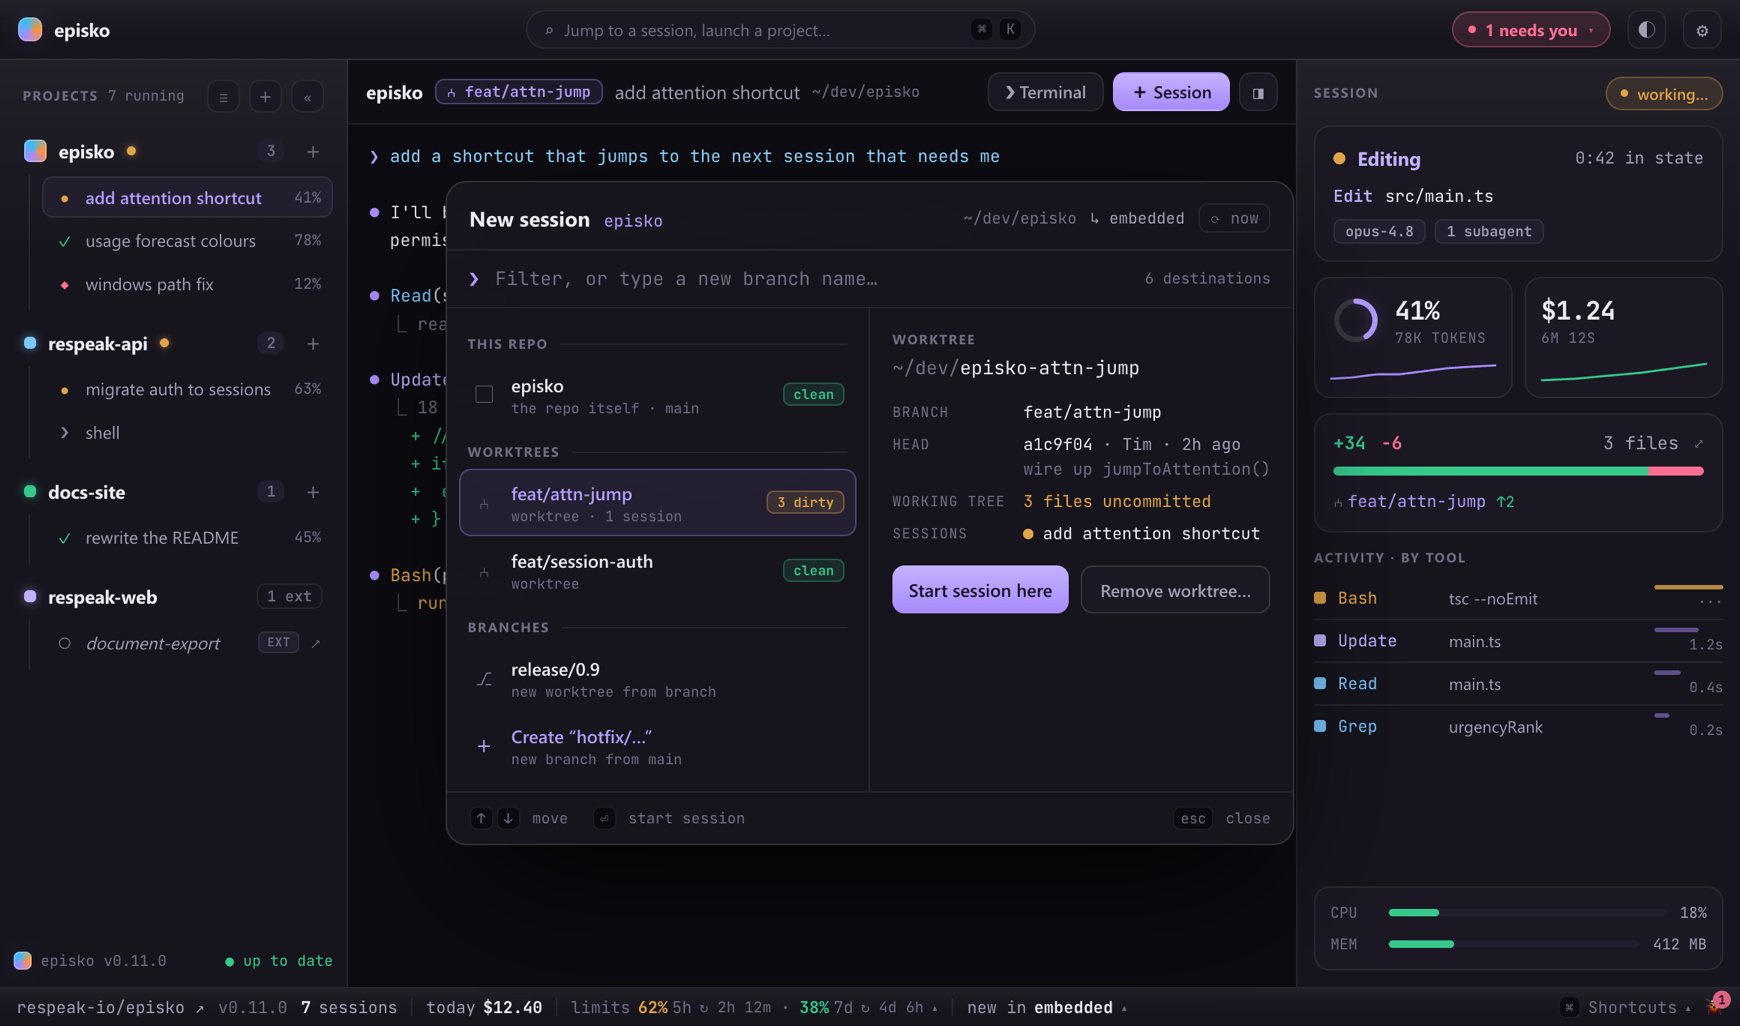
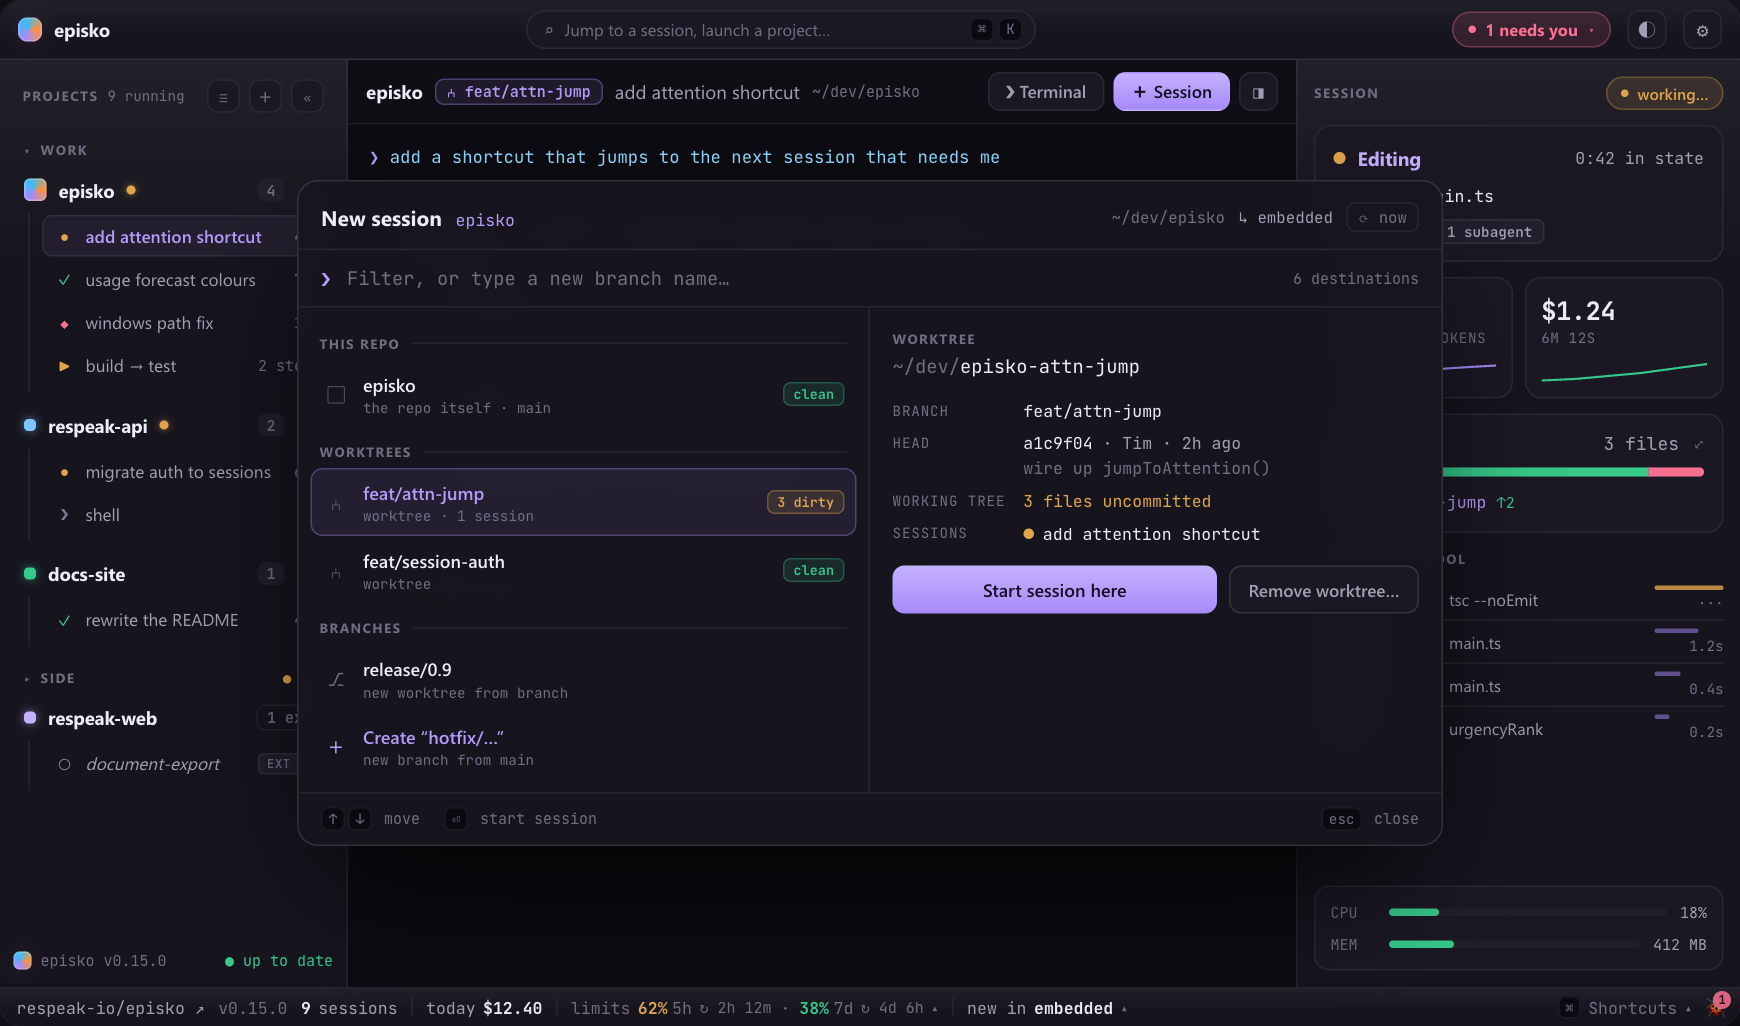
docs: README catches up to 0.15, renders re-captured from the live mock
The feature list gains what 0.12–0.15 shipped — the project dashboard,
issue dispatch with claims, the shared work log, project groups, task
chains, whole-machine history, drift repair and reload re-adoption — and
the dashboard gets its own section plus a new render. All seven renders
are re-captured from the site's cockpit mock at 1740×1026, so they show
the 0.15 rail (groups, chain row) and version labels instead of 0.11's.

diff --git a/README.md b/README.md
@@ -10,18 +10,32 @@
 
 ## What it does
 
-- **Every session in one view.** A sidebar of projects and their sessions, each with a status glyph and context %, sorted so whatever needs you floats up. Sessions that need a decision are called out in the header and the tray.
+- **Every session in one view.** A sidebar of projects and their sessions, each with a status glyph and context %, sorted so whatever needs you floats up. Sessions that need a decision are called out in the header and the tray. Projects can be grouped under your own headings — *Work*, *Side* — and a group folds to one line that still carries the most urgent glyph it hides.
 - **Real terminals, not wrappers.** Each session is a genuine PTY running the actual `claude` TUI — type into it, watch it think. Render it embedded ([xterm.js](https://xtermjs.org/)) or hand it to [Ghostty](https://ghostty.org/), Terminal.app or iTerm2. Plain shell panes too, for when you just need a prompt next to an agent.
-- **Answer permission prompts in-app.** When Claude asks to run something, Episko surfaces the command with a risk read and lets you allow, deny, or drop into the terminal — instead of hunting for which window is blocked.
-- **Live telemetry per session.** Model, context window use, cost, time in state, the running tool, and a short history of recent tool calls with latencies — plus per-session CPU/RAM and a git summary of what's changed.
+- **Answer permission prompts in-app.** When Claude asks to run something, Episko surfaces the command with a risk read and lets you allow, deny, or drop into the terminal — instead of hunting for which window is blocked. You also pick the permission mode a session *starts* in.
+- **Live telemetry per session.** Model, context window use, cost, time in state, the running tool, and a short history of recent tool calls with latencies — plus per-session CPU/RAM/disk I/O and a git summary of what's changed.
+- **A dashboard per project.** Click a project for its week: commits and sessions summarised a day at a time, open issues and pull requests, the repo's checkouts, shared notes, and what it all cost. [See below](#every-project-has-a-homepage).
+- **Send an agent at a GitHub issue.** Dispatch from the dashboard and Episko creates the worktree, sends the prompt, and writes a claim to the issue so a colleague's agent doesn't start the same work twice — then hands the issue back when the session ends.
 - **Usage limits, before you hit them.** Your 5-hour and weekly limits with reset times, and a forecast that warms from amber to red when your current pace won't make it.
 - **A usage dashboard.** Daily spend as a contribution heatmap, tokens by model, token composition (cache reads vs. input vs. output), and cost attributed per project.
-- **Launch into worktrees.** The new-session dialog lists the repo, its worktrees and branches, and can create a worktree on the fly so parallel agents don't fight over one checkout.
+- **Launch into worktrees.** The new-session dialog lists the repo, its worktrees and branches, and can create a worktree on the fly so parallel agents don't fight over one checkout. A session also notices when its agent drifts to *another* checkout mid-task, and offers the repair: follow it there, or move the conversation back.
 - **A commit graph per project.** Right-click a project → *Commit graph…* for its lanes, merges, branch and tag labels. It reads a page at a time and fetches the next as you scroll, so opening it on a huge repo costs the same as on a small one.
-- **Sessions started elsewhere show up too.** Claude Code sessions launched outside Episko are discovered and listed read-only, with jump-to-terminal on macOS.
-- **Survives a restart.** Episko's launch id *is* Claude's `--session-id`, so resuming replays Claude's own transcript — nothing to capture, nothing to lose.
+- **Sessions started elsewhere show up too.** Claude Code sessions launched outside Episko are discovered and listed read-only, with jump-to-terminal on macOS (the exact tab) and Windows (the hosting window).
+- **A whole-machine history.** Every Claude Code session on this machine — Episko's or not — read from Claude's own transcripts: searchable, scoped by project and day, reopenable where it left off.
+- **Survives a restart.** Episko's launch id *is* Claude's `--session-id`, so resuming replays Claude's own transcript — nothing to capture, nothing to lose. Even a webview reload rebuilds every pane and re-adopts the still-running processes, scrollback included.
 - **Run the project's own tasks** — VS Code tasks, a `justfile`, package scripts, a Makefile and more, in the same panes, with a run's exit code as its status. [See below](#run-your-projects-tasks-too).
-- **Command palette** (`⌘K`), a **settings window** (`⌘,`), per-project accent colours and icons, favourites and drag ordering, a daily cost rollup, and a `caffeinate` toggle so long runs don't sleep.
+- **Command palette** (`⌘K`), a **settings window** (`⌘,`), per-project accent colours and icons, favourites and drag ordering, a daily cost rollup you can open by project and session, a *What's new* screen after updates, and a `caffeinate` toggle so long runs don't sleep.
+
+## Every project has a homepage
+
+Click a project in the sidebar and you land on its dashboard — the answer to "what is going on in this repo":
+
+- **The week, a day at a time.** Commits and your sessions per day, each closed day summarised in a sentence (generated with Haiku through your own `claude` CLI — cached, and opt-in per project). On days more than one person committed, a second sentence describes what the *project* did, written from the commits and pull requests alone.
+- **A work log the team can share.** That project half can be committed as `.episko/digest.md`, so everyone who pulls reads one generated history instead of each paying to re-derive their own. Your half — session titles, spend — never reaches a file. Notes can be shared the same way (`.episko/notes.toml`).
+- **Issues and pull requests**, with triage suggestions for the ones that have gone quiet, and **claims**: dispatching an agent at an issue assigns it on GitHub so a colleague's agent doesn't start the same work twice. A claim is a hint, never a lock — it expires, and ends with the session.
+- **Checkouts** — the repo's worktrees with their dirty state, one click from a new session in any of them.
+
+The dashboard degrades by what the folder can offer: a GitHub repo gets all of it; a plain git repo everything but the GitHub column (the shared files need git, not GitHub — a GitLab or self-hosted remote is this tier); a bare folder still gets sessions, spend and notes.
 
 ## Run your project's tasks, too
 
@@ -29,7 +43,9 @@ Agents aren't the only thing worth watching. Episko runs the task definitions yo
 
 `.episko/tasks.toml` · `.vscode/tasks.json` · `.vscode/launch.json` · `package.json` scripts · `justfile` · `Taskfile.yml` · `mise.toml` · `Makefile` · `Cargo.toml`
 
-Hit **▶ Run** in the header (or `⌘⇧R`, or the **Tasks** group in `⌘K`) and pick one. A task run **is** a session: it inherits the phase state machine, sidebar glyphs, attention badge, tray and `⌘1`–`9`, because a run's exit code is simply its phase (0 → done, non-zero → error). Runs are deliberately un-instrumented — no settings file, no telemetry, no cost — and go through a *login* shell so they get the same PATH and version-manager shims your own terminal has. `dependsOn` chains are honoured, and a failed dependency stops the chain — "build then test" must not test a build that didn't happen.
+Hit **▶ Run** in the header (or `⌘⇧R`, or the **Tasks** group in `⌘K`) and pick one. A task run **is** a session: it inherits the phase state machine, sidebar glyphs, attention badge, tray and `⌘1`–`9`, because a run's exit code is simply its phase (0 → done, non-zero → error). Runs are deliberately un-instrumented — no settings file, no telemetry, no cost — and get their PATH from an *interactive login* shell, the same PATH and version-manager shims your own terminal has. `dependsOn` chains are honoured, and a failed dependency stops the chain — "build then test" must not test a build that didn't happen. A chain folds into **one sidebar row** carrying the worst step's status, and opens into a tiled stage; closing a tile focuses the next step rather than abandoning the rest.
+
+A parameterised task starts with what Episko already knows — the values you gave last time, or the definition's own defaults — and the `⋯` button (`⌥⏎`) reopens the prompt when you want to change them; the row's tooltip shows the command as it will actually run. There's also **run on stop**: a per-project rule that launches a task — the build, the tests — when an agent finishes a turn there, so verification happens without you asking for it.
 
 Three rules shaped it:
 
@@ -126,6 +142,10 @@ Release builds target Apple silicon (`aarch64`) and Windows x64. Intel Macs aren
 **Answer a permission request without leaving the app** — the command, how risky it looks, and allow / deny / open-in-terminal.
 
 ![Permission request surfaced in the inspector, with Allow, Deny and In terminal buttons](docs/shot-permission.png)
+
+**Every project has a homepage** — the week a day at a time, issues with claims, checkouts and shared notes.
+
+![Project dashboard with a summary strip, per-day summaries including a team sentence, issues with a claim, checkouts and notes](docs/shot-dashboard.png)
 
 **Run the project's own tasks** — grouped by where they came from. What can't run is listed with the reason rather than hidden.
 
